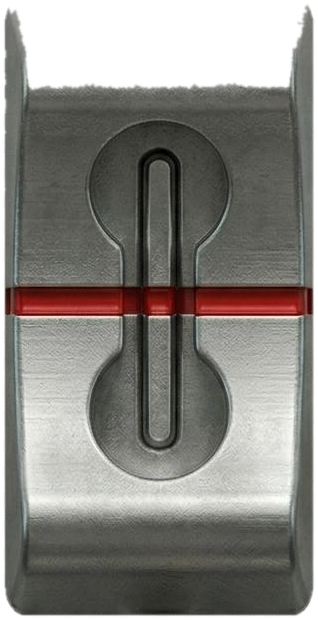
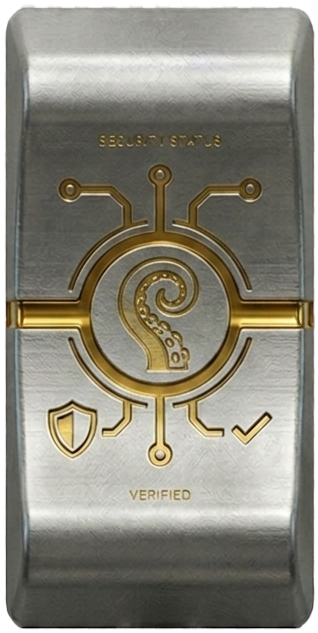
PHASE come switch stampato (cliccabile); placca emblema come cap dei fader IN/OUT
- placca SECURITY/VERIFIED ora usata come cap dei fader Input/Output
- ripristinato lo switch PHASE disegnato nello sfondo (hotspot cliccabile + lieve glow on)
- rimossi asset nemo_phase_*, label PHASE ora baked nello sfondo
- screenshot README aggiornato

diff --git a/source/PluginEditor.cpp b/source/PluginEditor.cpp
@@ -16,9 +16,9 @@ namespace nemo
 
     constexpr int   INF_CX = 68, OUTF_CX = 778;
     constexpr int   FTRAVEL_TOP = 162, FTRAVEL_BOT = 1146, FCAP_W = 60;
-    constexpr float FADER_ASPECT = 620.0f / 318.0f;
+    constexpr float FADER_ASPECT = 633.0f / 318.0f;        // cap = placca emblema
 
-    constexpr int   PH_CX = 253, PH_CY = 1108, PH_SZ = 124; // placca PHASE (aspetto 0.5)
+    constexpr int   PH_CX = 255, PH_CY = 1100, PH_W = 98, PH_H = 52; // hotspot switch stampato
 
     const juce::Colour LED_COLOUR  { 0xff39e0a6 };  // verde-ciano accensione box
     const juce::Colour HABISS_RED  { 0xffe8342a };  // HABISS più saturato/rosso salendo
@@ -99,18 +99,17 @@ void MeterDisplay::paint(juce::Graphics& g)
 // ═════════════════════════════════════════════════════════════════════
 PhaseToggle::PhaseToggle() : juce::Button("phase")
 {
-    onImg  = juce::ImageCache::getFromMemory(BinaryData::nemo_phase_on_png,  BinaryData::nemo_phase_on_pngSize);
-    offImg = juce::ImageCache::getFromMemory(BinaryData::nemo_phase_off_png, BinaryData::nemo_phase_off_pngSize);
     setClickingTogglesState(true);
 }
 
 void PhaseToggle::paintButton(juce::Graphics& g, bool, bool)
 {
-    const auto& img = getToggleState() ? onImg : offImg;
-    if (img.isValid())
+    // Lo switch è già disegnato nello sfondo: qui solo un lieve glow dorato quando attivo
+    if (getToggleState())
     {
-        g.setImageResamplingQuality(juce::Graphics::highResamplingQuality);
-        g.drawImageWithin(img, 0, 0, getWidth(), getHeight(), juce::RectanglePlacement::centred);
+        auto r = getLocalBounds().toFloat().reduced(2.0f);
+        g.setColour(juce::Colour(0xffd4a83a).withAlpha(0.28f));
+        g.fillRoundedRectangle(r, 4.0f);
     }
 }
 
@@ -220,15 +219,7 @@ void StereoCompressorEditor::paint(juce::Graphics& g)
     else
         g.fillAll(juce::Colour(0xff9aa0a4));
 
-    // (Il titolo NEMO è ora dorato e stampato nello sfondo)
-
-    // ── Etichetta PHASE (sotto la placca) ──
-    {
-        g.setColour(juce::Colour(0xff3a3d40));
-        g.setFont(juce::Font(juce::Font::getDefaultSansSerifFontName(), (float) S(20), juce::Font::bold));
-        g.drawText("PHASE", S(PH_CX) - S(60), S(PH_CY) + S(PH_SZ) / 2 - S(4),
-                   S(120), S(24), juce::Justification::centred);
-    }
+    // (Titolo NEMO dorato e label PHASE sono stampati nello sfondo)
 
     // ── Box che si accendono quando lo stage è attivo ──
     for (int i = 0; i < 8; ++i)
@@ -254,8 +245,7 @@ void StereoCompressorEditor::resized()
     inFader .setBounds(S(INF_CX)  - fw / 2, fTop, fw, fH);
     outFader.setBounds(S(OUTF_CX) - fw / 2, fTop, fw, fH);
 
-    const int ps = S(PH_SZ);
-    phaseButton.setBounds(S(PH_CX) - ps / 2, S(PH_CY) - ps / 2, ps, ps);
+    phaseButton.setBounds(S(PH_CX) - S(PH_W) / 2, S(PH_CY) - S(PH_H) / 2, S(PH_W), S(PH_H));
 
     meterDisplay.setBounds(S(MG_X0), S(MG_Y0), S(MG_X1) - S(MG_X0), S(MG_Y1) - S(MG_Y0));
 }

diff --git a/source/PluginEditor.h b/source/PluginEditor.h
@@ -18,14 +18,13 @@ private:
     float displayedGR  {   0.0f };
 };
 
-// ── Toggle PHASE: disegna l'asset on/off in base allo stato ──
+// ── Toggle PHASE: hotspot trasparente sopra lo switch stampato nello sfondo ──
+// (estetica dello switch lasciata com'è nel background; lieve glow quando attivo)
 class PhaseToggle : public juce::Button
 {
 public:
     PhaseToggle();
     void paintButton(juce::Graphics&, bool, bool) override;
-private:
-    juce::Image onImg, offImg;
 };
 
 // ── Editor principale (skin NEMO) ──